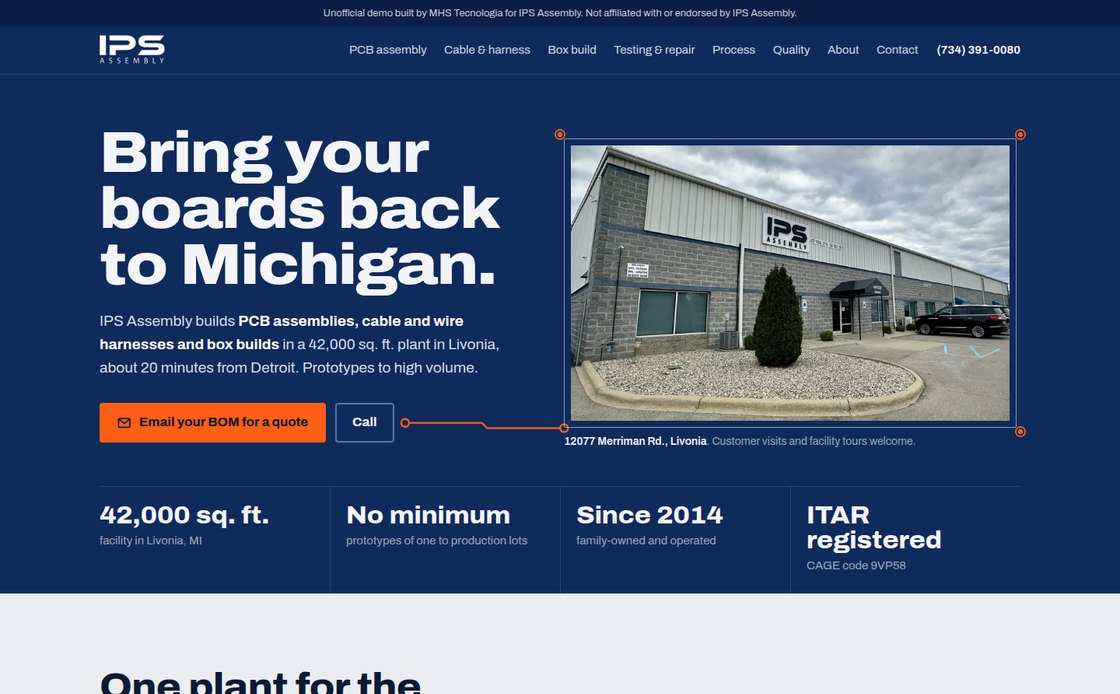
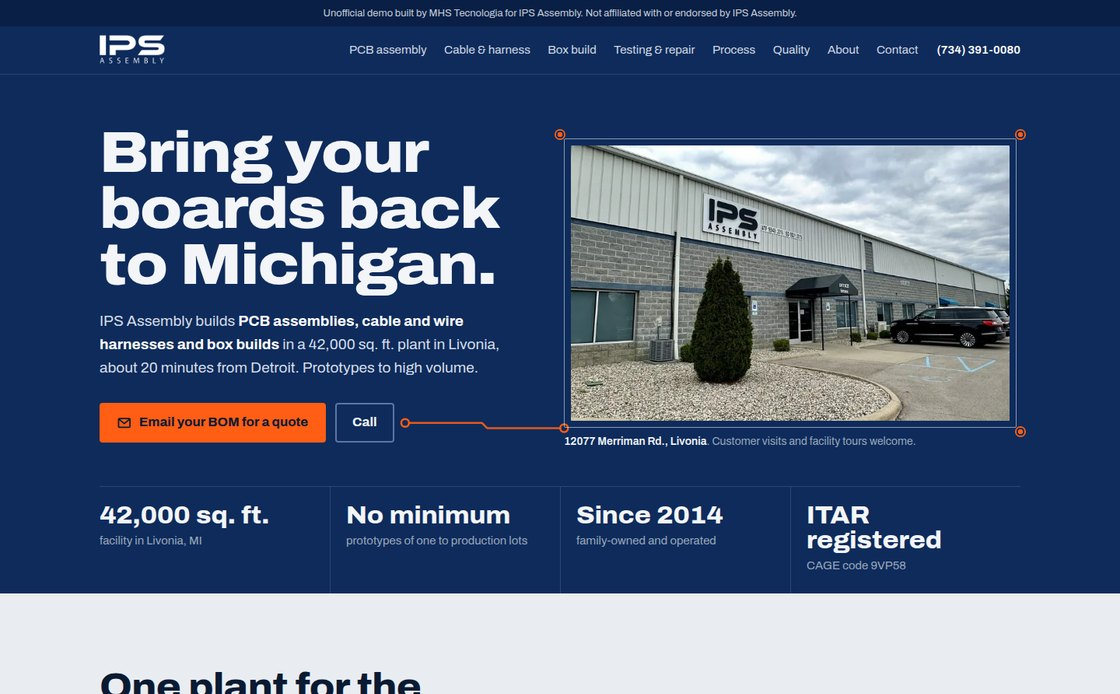
Previews: 11 ativos

Changed region(s): [[0.5, 0.2118, 0.9062, 0.6052]]

diff --git a/ips-assembly-mi/site.css b/ips-assembly-mi/site.css
@@ -112,7 +112,19 @@ h3 { font-size: 1.3rem; font-weight: 750; font-stretch: 104%; line-height: 1.15;
 .side-facts li { padding: .8rem 0; border-bottom: 1px solid var(--mask-line); font-size: .95rem; color: #c3cddb; line-height: 1.4; }
 .side-facts b { display: block; color: #fff; font-weight: 700; font-size: 1.05rem; }
 .side-facts a { color: #fff; text-underline-offset: 4px; }
-.rail-note {font-size: .9rem; color: var(--steel); line-height: 1.4; }
+/* Small drawings in the route's language: copper traces, silkscreen outlines, pads. */
+.sketch { display: block; width: 100%; max-width: 460px; height: auto; margin-left: auto; overflow: visible; }
+.sketch .silk { fill: none; stroke: rgba(243, 245, 248, .6); stroke-width: 1.5; }
+.sketch .cu { fill: none; stroke: var(--copper); stroke-width: 3; stroke-linecap: round; stroke-linejoin: round; }
+.sketch .cu-thin { fill: none; stroke: var(--copper); stroke-width: 2; stroke-linecap: round; stroke-linejoin: round; }
+.sketch .pad { fill: var(--copper); }
+.sketch .ring { fill: var(--mask); stroke: var(--copper); stroke-width: 2.5; }
+.sketch .dim { fill: var(--mask); stroke: var(--steel); stroke-width: 2; opacity: .6; }
+.sketch .trace-dim { fill: none; stroke: #46679e; stroke-width: 3; }
+.sketch .chip { fill: #12233f; stroke: rgba(243, 245, 248, .6); stroke-width: 1.5; }
+.sketch .band { fill: var(--steel); }
+.sketch .lit { fill: var(--copper); stroke: var(--copper); stroke-width: 2.5; }
+.rail-note { font-size: .9rem; color: var(--steel); line-height: 1.4; }
 .rail-note b { color: var(--silk); font-weight: 600; }
 
 /* ---------- sections ---------- */
@@ -178,7 +190,6 @@ section.tight { padding-top: clamp(2.5rem, 5vw, 4rem); }
 .steps .end .pd { background: var(--copper); color: var(--ink); }
 .steps .end::before { display: none; }
 .steps .key .t { color: #fff; font-weight: 700; }
-.route .more { display: none; }
 .armed .steps li::before { transform: scaleX(0); transition: transform .28s ease-out; transition-delay: calc(var(--i) * 70ms); }
 .armed .steps .to-d::before { transform: scaleY(0); }
 .armed .steps.in li::before { transform: none; }
@@ -202,6 +213,19 @@ section.tight { padding-top: clamp(2.5rem, 5vw, 4rem); }
     .stations > li::before { animation: lit linear both; animation-timeline: view(); animation-range: entry 10% cover 30%; }
   }
 }
+/* the same trace on dark, compact: the home page route on phones */
+.on-dark .stations > li::before { background: var(--mask); color: var(--silk); }
+.on-dark .stations > li:last-child::before { background: var(--copper); color: var(--ink); }
+.stations.compact > li { padding-bottom: .85rem; align-items: center; }
+.stations.compact > li::before { width: 2.6rem; height: 2.6rem; font-size: .9rem; grid-row: auto; }
+.stations.compact > li::after { left: calc(1.3rem - 2px); top: 1.3rem; }
+.stations.compact span { font-size: 1rem; line-height: 1.3; color: #dfe5ee; }
+.stations.compact .key span { color: #fff; font-weight: 700; }
+.mob-only { display: none; }
+/* process page: the whole station on the diagram jumps to its description */
+.steps a.t::after { content: ""; position: absolute; inset: 0; z-index: 3; }
+.stations > li:target h3 { color: var(--copper); }
+.stations > li { scroll-margin-top: 1.5rem; }
 @keyframes lay { from { transform: scaleY(0); } to { transform: scaleY(1); } }
 @keyframes lit { from { box-shadow: inset 0 0 0 3px var(--rule); } to { box-shadow: inset 0 0 0 3px var(--copper); } }
 
@@ -281,8 +305,7 @@ footer { background: var(--mask-deep); color: #c3cddb; font-size: .9rem; line-he
 .foot-grid li + li { margin-top: .35rem; }
 .foot-grid a { color: #e3e8ef; text-decoration: none; }
 .foot-grid a:hover { color: #fff; text-decoration: underline; text-underline-offset: 4px; }
-.foot-grid .nolink { color: #8f9db0; }
-.foot-grid .nolink small { font-size: .75rem; }
+.foot-grid .offsite { margin-top: 0; padding-top: 1.75rem; font-size: .85rem; line-height: 1.5; color: #8f9db0; max-width: 17rem; }
 .legal { margin-top: 2.5rem; padding-top: 1.25rem; border-top: 1px solid var(--mask-line); display: flex; flex-wrap: wrap; justify-content: space-between; gap: .75rem 2rem; font-size: .85rem; }
 .legal a { color: #fff; text-underline-offset: 3px; }
 
@@ -310,22 +333,14 @@ footer { background: var(--mask-deep); color: #c3cddb; font-size: .9rem; line-he
   .readout li:nth-child(n+3) { border-top: 1px solid var(--mask-line); }
   .intro, .cols, .quote .cols, .on-dark .cols, .split { grid-template-columns: 1fr; }
   .desk-only { display: none; }
+  .mob-only { display: block; }
+  .sketch { margin: 0; max-width: 360px; }
   .sticky-head { position: static; }
   .sheet > li { grid-template-columns: 1fr; }
   .also { grid-template-columns: repeat(2, minmax(0, 1fr)); }
   .inds { grid-template-columns: repeat(2, minmax(0, 1fr)); }
   .foot-grid { grid-template-columns: repeat(2, minmax(0, 1fr)); }
   .foot-grid > div:first-child { grid-column: 1 / -1; }
-  .steps { grid-template-columns: 1fr; grid-auto-rows: auto; }
-  .steps li { grid-row: auto; grid-column: auto; display: grid; grid-template-columns: 2.6rem minmax(0, 1fr); gap: 1rem; align-items: center; text-align: left; padding: 0 0 .9rem; }
-  .steps .pd { margin: 0; }
-  .steps li:not(.end)::before, .steps .to-r::before, .steps .to-l::before, .steps .to-d.out-r::before, .steps .to-d.out-l::before { left: calc(1.3rem - 2px); right: auto; top: 1.3rem; width: 4px; height: 100%; transform-origin: center top; border: 0; border-radius: 0; background: var(--copper); }
-  .armed .steps li::before { transform: scaleY(0); }
-  .armed .steps.in li::before { transform: none; }
-  .steps .t { font-size: 1rem; }
-  .route .more { display: inline-flex; margin-top: .25rem; background: transparent; color: var(--silk); box-shadow: inset 0 0 0 2px #5d76a3; font: inherit; font-weight: 700; cursor: pointer; }
-  .steps.short li:nth-child(n+8) { display: none; }
-  .steps.short li:nth-child(7)::before { display: none; }
   .lead-trace circle { r: 4px; }
 }
 @media (max-width: 640px) {
@@ -348,7 +363,7 @@ footer { background: var(--mask-deep); color: #c3cddb; font-size: .9rem; line-he
   .hero .ctas .long { display: none; }
   .placed { margin: 10px 10px 2.6rem; }
   .placed::before { inset: -7px; }
-  .placed img { aspect-ratio: 16 / 9; object-position: 40% 60%; }
+  .placed img { aspect-ratio: 16 / 9; object-position: 30% 45%; }
   .fid { width: 12px; height: 12px; }
   .fid.a { top: -17px; left: -17px; } .fid.b { top: -17px; right: -17px; } .fid.c { bottom: -17px; right: -17px; }
   .placed figcaption { top: calc(100% + 12px); left: -7px; font-size: .8125rem; }

diff --git a/ips-assembly-mi/pcb-assembly.html b/ips-assembly-mi/pcb-assembly.html
@@ -67,8 +67,33 @@
         </div>
       </div>
       <div class="side" aria-hidden="true">
-        <div class="rail"><i class="on"></i><i class="on"></i><i class="on"></i><i class="on"></i><i class="on"></i><i class="on"></i><i class="on"></i><i class="on"></i><i class="on"></i><i class="on"></i><i class="on"></i><i class="on"></i><i class="on"></i><i class="on"></i><i class="on"></i><i class="on"></i><i class="on"></i><i class="on"></i><i class="on"></i><i class="on"></i><i class="on"></i></div>
-        <p class="rail-note"><b>All 21 stations</b> of the IPS PCB assembly order process, from new product introduction to shipping.</p>
+        <svg class="sketch" viewBox="0 0 440 240" focusable="false">
+          <rect x="10" y="10" width="420" height="220" rx="10" fill="#12233f" stroke="rgba(243,245,248,.6)" stroke-width="1.5"/>
+          <g class="ring"><circle cx="32" cy="32" r="7"/><circle cx="408" cy="32" r="7"/><circle cx="32" cy="208" r="7"/><circle cx="408" cy="208" r="7"/></g>
+          <g class="pad"><circle cx="62" cy="32" r="4"/><circle cx="378" cy="208" r="4"/></g>
+          <g class="ring">
+            <circle cx="60" cy="80" r="6"/><circle cx="82" cy="80" r="6"/><circle cx="60" cy="100" r="6"/><circle cx="82" cy="100" r="6"/><circle cx="60" cy="120" r="6"/><circle cx="82" cy="120" r="6"/><circle cx="60" cy="140" r="6"/><circle cx="82" cy="140" r="6"/><circle cx="60" cy="160" r="6"/><circle cx="82" cy="160" r="6"/>
+          </g>
+          <rect class="silk" x="46" y="68" width="50" height="104" rx="2"/>
+          <path class="cu-thin" d="M88 80H118L133 95H158M88 100H118L126 108H158M88 120H158M88 140H120L128 132H158M88 160H118L133 145H158"/>
+          <g class="pad">
+            <rect x="182" y="58" width="6" height="10"/><rect x="197" y="58" width="6" height="10"/><rect x="212" y="58" width="6" height="10"/><rect x="227" y="58" width="6" height="10"/><rect x="242" y="58" width="6" height="10"/><rect x="257" y="58" width="6" height="10"/>
+            <rect x="182" y="172" width="6" height="10"/><rect x="197" y="172" width="6" height="10"/><rect x="212" y="172" width="6" height="10"/><rect x="227" y="172" width="6" height="10"/><rect x="242" y="172" width="6" height="10"/><rect x="257" y="172" width="6" height="10"/>
+            <rect x="158" y="92" width="10" height="6"/><rect x="158" y="105" width="10" height="6"/><rect x="158" y="117" width="10" height="6"/><rect x="158" y="129" width="10" height="6"/><rect x="158" y="142" width="10" height="6"/><rect x="158" y="80" width="10" height="6"/>
+            <rect x="272" y="80" width="10" height="6"/><rect x="272" y="92" width="10" height="6"/><rect x="272" y="105" width="10" height="6"/><rect x="272" y="117" width="10" height="6"/><rect x="272" y="129" width="10" height="6"/><rect x="272" y="142" width="10" height="6"/>
+          </g>
+          <rect class="chip" x="170" y="70" width="100" height="100" rx="4"/>
+          <circle cx="184" cy="84" r="3" fill="rgba(243,245,248,.6)"/>
+          <path class="cu-thin" d="M282 83H330L338 75H352M282 120H352M282 145H320L332 157H352M245 182V200H300L308 192H330"/>
+          <g class="pad">
+            <rect x="352" y="68" width="12" height="14"/><rect x="380" y="68" width="12" height="14"/>
+            <rect x="352" y="113" width="12" height="14"/><rect x="380" y="113" width="12" height="14"/>
+            <rect x="352" y="150" width="12" height="14"/><rect x="380" y="150" width="12" height="14"/>
+          </g>
+          <g class="silk"><rect x="348" y="64" width="48" height="22" rx="2"/><rect x="348" y="109" width="48" height="22" rx="2"/><rect x="348" y="146" width="48" height="22" rx="2"/></g>
+          <circle class="ring" cx="330" cy="192" r="5"/>
+        </svg>
+        <p class="rail-note"><b>SMT, thru-hole and mixed</b> on one board: fine-pitch packages, thru-hole headers and passives, routed and inspected.</p>
       </div>
     </div>
   </section>
@@ -190,13 +215,7 @@
         </ul>
       </div>
       <div>
-        <h2>Also on their site</h2>
-        <ul>
-          <li class="nolink">The Circuit blog</li>
-          <li class="nolink">Careers</li>
-          <li class="nolink">Capability statement (PDF)</li>
-          <li class="nolink"><small>Not part of this demo</small></li>
-        </ul>
+        <p class="offsite">Their blog, careers page and capability statement PDF live on ipsassembly.com and are not part of this demo.</p>
       </div>
     </div>
     <div class="legal">

diff --git a/ips-assembly-mi/index.html b/ips-assembly-mi/index.html
@@ -162,8 +162,8 @@
         <h2 id="h-route">The route every board takes through the plant.</h2>
         <p>Twenty-one stations, from new product introduction to the shipping dock, with inspection after paste print, at first article, after reflow and before anything ships.</p>
       </div>
-      <div class="board">
-        <ol class="steps short" id="steps" role="list">
+      <div class="board desk-only">
+        <ol class="steps" id="steps" role="list">
           <li class="to-r" style="--r:1;--c:1;--i:0"><span class="pd">1</span><span class="t">New product introduction</span></li>
           <li class="to-r" style="--r:1;--c:2;--i:1"><span class="pd">2</span><span class="t">Procurement, receiving &amp; inspection</span></li>
           <li class="to-r" style="--r:1;--c:3;--i:2"><span class="pd">3</span><span class="t">Kitting &amp; programming</span></li>
@@ -186,8 +186,30 @@
           <li class="to-r" style="--r:3;--c:6;--i:19"><span class="pd">20</span><span class="t">Packaging</span></li>
           <li class="end" style="--r:3;--c:7;--i:20"><span class="pd">21</span><span class="t">Shipping</span></li>
         </ol>
-        <button class="btn more" type="button" id="more" aria-controls="steps" aria-expanded="false">Show all 21 stations</button>
       </div>
+      <ol class="stations compact mob-only" role="list" aria-label="The 21 stations">
+        <li><span>New product introduction</span></li>
+        <li><span>Procurement, receiving &amp; inspection</span></li>
+        <li><span>Kitting &amp; programming</span></li>
+        <li><span>Feeder loading</span></li>
+        <li><span>Screen printing</span></li>
+        <li class="key"><span>3D solder paste inspection</span></li>
+        <li><span>Surface mount assembly</span></li>
+        <li class="key"><span>First article inspection</span></li>
+        <li><span>Reflow, oven profiling</span></li>
+        <li><span>Feeder unloading</span></li>
+        <li class="key"><span>Automated optical inspection</span></li>
+        <li class="key"><span>X-ray inspection</span></li>
+        <li><span>In-process inspection</span></li>
+        <li><span>Wave, selective &amp; manual solder</span></li>
+        <li><span>De-panel</span></li>
+        <li><span>Conformal coating</span></li>
+        <li><span>Box build</span></li>
+        <li><span>Functional &amp; in-circuit testing</span></li>
+        <li class="key"><span>Final inspection</span></li>
+        <li><span>Packaging</span></li>
+        <li><span>Shipping</span></li>
+      </ol>
       <p class="foot">Production runs under ERP-driven traceability, and every shipment leaves with its documentation and quality reports. <a class="more-link" href="process.html">What happens at each station</a></p>
     </div>
   </section>
@@ -302,13 +324,7 @@
         </ul>
       </div>
       <div>
-        <h2>Also on their site</h2>
-        <ul>
-          <li class="nolink">The Circuit blog</li>
-          <li class="nolink">Careers</li>
-          <li class="nolink">Capability statement (PDF)</li>
-          <li class="nolink"><small>Not part of this demo</small></li>
-        </ul>
+        <p class="offsite">Their blog, careers page and capability statement PDF live on ipsassembly.com and are not part of this demo.</p>
       </div>
     </div>
     <div class="legal">

diff --git a/ips-assembly-mi/box-build.html b/ips-assembly-mi/box-build.html
@@ -67,8 +67,23 @@
         </div>
       </div>
       <div class="side" aria-hidden="true">
-        <div class="rail"><i></i><i></i><i></i><i></i><i></i><i></i><i></i><i></i><i></i><i></i><i></i><i></i><i></i><i></i><i></i><i></i><i class="on"></i><i class="on"></i><i class="on"></i><i class="on"></i><i class="on"></i></div>
-        <p class="rail-note"><b>Stations 17 to 21</b> of the IPS route: box build, testing, final inspection, packaging and shipping.</p>
+        <svg class="sketch" viewBox="0 0 440 240" focusable="false">
+          <rect class="silk" x="10" y="10" width="390" height="220" rx="8"/>
+          <g class="ring"><circle cx="30" cy="30" r="5"/><circle cx="380" cy="30" r="5"/><circle cx="30" cy="210" r="5"/><circle cx="380" cy="210" r="5"/></g>
+          <rect x="50" y="48" width="180" height="120" rx="6" fill="#12233f" stroke="#ff5e14" stroke-width="2"/>
+          <g class="ring"><circle cx="64" cy="62" r="4"/><circle cx="216" cy="62" r="4"/><circle cx="64" cy="154" r="4"/><circle cx="216" cy="154" r="4"/></g>
+          <rect class="chip" x="105" y="80" width="56" height="56" rx="3"/>
+          <path class="cu-thin" d="M161 96H190L200 86H230M161 120H200L210 130H230"/>
+          <path d="M230 86C290 86 320 98 400 98" fill="none" stroke="#ff5e14" stroke-width="5" stroke-linecap="round"/>
+          <path d="M230 130C290 130 320 118 400 118" fill="none" stroke="#f3f5f8" stroke-width="5" stroke-linecap="round" opacity=".85"/>
+          <rect class="band" x="312" y="88" width="14" height="40" rx="3"/>
+          <rect class="silk" x="400" y="78" width="30" height="60" rx="3"/>
+          <g class="pad"><rect x="412" y="92" width="8" height="8"/><rect x="412" y="104" width="8" height="8"/><rect x="412" y="116" width="8" height="8"/></g>
+          <rect class="silk" x="250" y="172" width="120" height="40" rx="4"/>
+          <path class="cu-thin" d="M150 168V192H250"/>
+          <g fill="rgba(243,245,248,.6)"><rect x="40" y="190" width="3" height="20"/><rect x="47" y="190" width="2" height="20"/><rect x="53" y="190" width="4" height="20"/><rect x="61" y="190" width="2" height="20"/><rect x="67" y="190" width="3" height="20"/><rect x="74" y="190" width="2" height="20"/><rect x="80" y="190" width="4" height="20"/></g>
+        </svg>
+        <p class="rail-note"><b>Board, harness, power and I/O</b> mounted, routed, serialized and tested in one enclosure.</p>
       </div>
     </div>
   </section>
@@ -171,13 +186,7 @@
         </ul>
       </div>
       <div>
-        <h2>Also on their site</h2>
-        <ul>
-          <li class="nolink">The Circuit blog</li>
-          <li class="nolink">Careers</li>
-          <li class="nolink">Capability statement (PDF)</li>
-          <li class="nolink"><small>Not part of this demo</small></li>
-        </ul>
+        <p class="offsite">Their blog, careers page and capability statement PDF live on ipsassembly.com and are not part of this demo.</p>
       </div>
     </div>
     <div class="legal">

diff --git a/ips-assembly-mi/cable-harness.html b/ips-assembly-mi/cable-harness.html
@@ -66,11 +66,24 @@
           <a class="btn ghost" href="tel:+17343910080">Call</a>
         </div>
       </div>
-      <ul class="side side-facts">
-        <li><b>IPC/WHMA-A-620</b>Workmanship standard for every cable and harness</li>
-        <li><b>Same-day prototypes</b>Quick-turn builds when material is on hand</li>
-        <li><b>Serialized</b>Full traceability and documentation</li>
-      </ul>
+      <div class="side" aria-hidden="true">
+        <svg class="sketch" viewBox="0 0 440 210" focusable="false">
+          <rect class="silk" x="10" y="58" width="58" height="92" rx="4"/>
+          <g class="pad"><rect x="54" y="72" width="12" height="8"/><rect x="54" y="90" width="12" height="8"/><rect x="54" y="108" width="12" height="8"/><rect x="54" y="126" width="12" height="8"/></g>
+          <path d="M66 76C170 76 230 62 368 56" fill="none" stroke="#ff5e14" stroke-width="5" stroke-linecap="round"/>
+          <path d="M66 94C170 94 236 80 368 76" fill="none" stroke="#f3f5f8" stroke-width="5" stroke-linecap="round" opacity=".85"/>
+          <path d="M66 112C170 112 240 150 368 150" fill="none" stroke="#9aa8ba" stroke-width="5" stroke-linecap="round"/>
+          <path d="M66 130C170 130 236 170 368 170" fill="none" stroke="#ff5e14" stroke-width="5" stroke-linecap="round"/>
+          <rect class="band" x="130" y="68" width="16" height="72" rx="4"/>
+          <rect class="band" x="296" y="52" width="14" height="38" rx="4"/>
+          <rect class="band" x="296" y="140" width="14" height="40" rx="4"/>
+          <rect class="silk" x="368" y="40" width="58" height="52" rx="4"/>
+          <g class="pad"><rect x="370" y="52" width="12" height="8"/><rect x="370" y="72" width="12" height="8"/></g>
+          <rect class="silk" x="368" y="134" width="58" height="52" rx="4"/>
+          <g class="pad"><rect x="370" y="146" width="12" height="8"/><rect x="370" y="166" width="12" height="8"/></g>
+        </svg>
+        <p class="rail-note"><b>One connector, two branches:</b> cut, stripped, crimped, sleeved and labeled to IPC/WHMA-A-620.</p>
+      </div>
     </div>
   </section>
 
@@ -169,13 +182,7 @@
         </ul>
       </div>
       <div>
-        <h2>Also on their site</h2>
-        <ul>
-          <li class="nolink">The Circuit blog</li>
-          <li class="nolink">Careers</li>
-          <li class="nolink">Capability statement (PDF)</li>
-          <li class="nolink"><small>Not part of this demo</small></li>
-        </ul>
+        <p class="offsite">Their blog, careers page and capability statement PDF live on ipsassembly.com and are not part of this demo.</p>
       </div>
     </div>
     <div class="legal">

diff --git a/ips-assembly-mi/testing.html b/ips-assembly-mi/testing.html
@@ -67,7 +67,19 @@
         </div>
       </div>
       <div class="side" aria-hidden="true">
-        <div class="rail"><i></i><i class="on"></i><i></i><i></i><i></i><i class="on"></i><i></i><i class="on"></i><i></i><i></i><i class="on"></i><i class="on"></i><i class="on"></i><i></i><i></i><i></i><i></i><i class="on"></i><i class="on"></i><i></i><i></i></div>
+        <svg class="sketch" viewBox="-20 12 440 200" focusable="false">
+          <path class="trace-dim" d="M30 40H366A35 35 0 0 1 366 110H30A35 35 0 0 0 30 180H366"/>
+          <g class="dim">
+            <circle cx="30" cy="40" r="9"/><circle cx="142" cy="40" r="9"/><circle cx="198" cy="40" r="9"/><circle cx="254" cy="40" r="9"/><circle cx="366" cy="40" r="9"/>
+            <circle cx="310" cy="110" r="9"/><circle cx="254" cy="110" r="9"/><circle cx="30" cy="110" r="9"/>
+            <circle cx="30" cy="180" r="9"/><circle cx="86" cy="180" r="9"/><circle cx="142" cy="180" r="9"/><circle cx="310" cy="180" r="9"/><circle cx="366" cy="180" r="9"/>
+          </g>
+          <g class="lit">
+            <circle cx="86" cy="40" r="10"/><circle cx="310" cy="40" r="10"/>
+            <circle cx="366" cy="110" r="10"/><circle cx="198" cy="110" r="10"/><circle cx="142" cy="110" r="10"/><circle cx="86" cy="110" r="10"/>
+            <circle cx="198" cy="180" r="10"/><circle cx="254" cy="180" r="10"/>
+          </g>
+        </svg>
         <p class="rail-note"><b>8 of the 21 stations</b> on the IPS route inspect or test, from receiving to final inspection.</p>
       </div>
     </div>
@@ -194,13 +206,7 @@
         </ul>
       </div>
       <div>
-        <h2>Also on their site</h2>
-        <ul>
-          <li class="nolink">The Circuit blog</li>
-          <li class="nolink">Careers</li>
-          <li class="nolink">Capability statement (PDF)</li>
-          <li class="nolink"><small>Not part of this demo</small></li>
-        </ul>
+        <p class="offsite">Their blog, careers page and capability statement PDF live on ipsassembly.com and are not part of this demo.</p>
       </div>
     </div>
     <div class="legal">

diff --git a/ips-assembly-mi/site.js b/ips-assembly-mi/site.js
@@ -9,14 +9,6 @@ if (steps) {
     const io = new IntersectionObserver(([e]) => { if (e.isIntersecting) { steps.classList.add('in'); io.disconnect() } }, { threshold: .25 })
     io.observe(steps)
   } else steps.classList.add('in')
-
-  // On phones the route shows seven stations until asked for the rest.
-  const more = document.getElementById('more')
-  if (more) more.addEventListener('click', () => {
-    const open = steps.classList.toggle('short') === false
-    more.setAttribute('aria-expanded', String(open))
-    more.textContent = open ? 'Show fewer stations' : 'Show all 21 stations'
-  })
 }
 
 // Capability lists collapse on phones only (the initial state is set inline, before paint).

diff --git a/ips-assembly-mi/about.html b/ips-assembly-mi/about.html
@@ -165,13 +165,7 @@
         </ul>
       </div>
       <div>
-        <h2>Also on their site</h2>
-        <ul>
-          <li class="nolink">The Circuit blog</li>
-          <li class="nolink">Careers</li>
-          <li class="nolink">Capability statement (PDF)</li>
-          <li class="nolink"><small>Not part of this demo</small></li>
-        </ul>
+        <p class="offsite">Their blog, careers page and capability statement PDF live on ipsassembly.com and are not part of this demo.</p>
       </div>
     </div>
     <div class="legal">

diff --git a/ips-assembly-mi/contact.html b/ips-assembly-mi/contact.html
@@ -156,13 +156,7 @@
         </ul>
       </div>
       <div>
-        <h2>Also on their site</h2>
-        <ul>
-          <li class="nolink">The Circuit blog</li>
-          <li class="nolink">Careers</li>
-          <li class="nolink">Capability statement (PDF)</li>
-          <li class="nolink"><small>Not part of this demo</small></li>
-        </ul>
+        <p class="offsite">Their blog, careers page and capability statement PDF live on ipsassembly.com and are not part of this demo.</p>
       </div>
     </div>
     <div class="legal">

diff --git a/ips-assembly-mi/process.html b/ips-assembly-mi/process.html
@@ -192,13 +192,7 @@
         </ul>
       </div>
       <div>
-        <h2>Also on their site</h2>
-        <ul>
-          <li class="nolink">The Circuit blog</li>
-          <li class="nolink">Careers</li>
-          <li class="nolink">Capability statement (PDF)</li>
-          <li class="nolink"><small>Not part of this demo</small></li>
-        </ul>
+        <p class="offsite">Their blog, careers page and capability statement PDF live on ipsassembly.com and are not part of this demo.</p>
       </div>
     </div>
     <div class="legal">

diff --git a/ips-assembly-mi/quality.html b/ips-assembly-mi/quality.html
@@ -171,13 +171,7 @@
         </ul>
       </div>
       <div>
-        <h2>Also on their site</h2>
-        <ul>
-          <li class="nolink">The Circuit blog</li>
-          <li class="nolink">Careers</li>
-          <li class="nolink">Capability statement (PDF)</li>
-          <li class="nolink"><small>Not part of this demo</small></li>
-        </ul>
+        <p class="offsite">Their blog, careers page and capability statement PDF live on ipsassembly.com and are not part of this demo.</p>
       </div>
     </div>
     <div class="legal">
